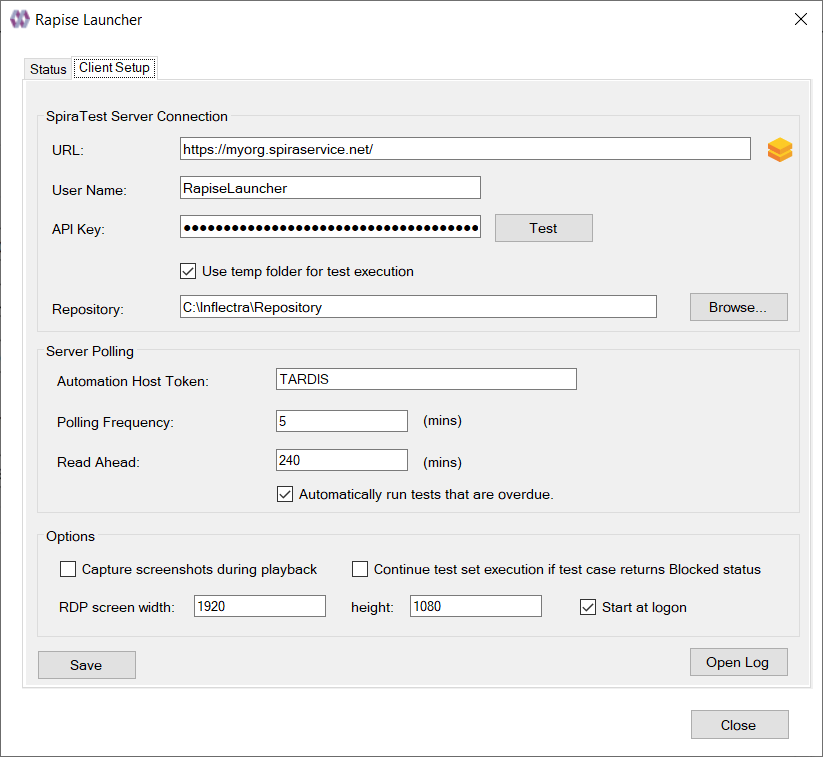
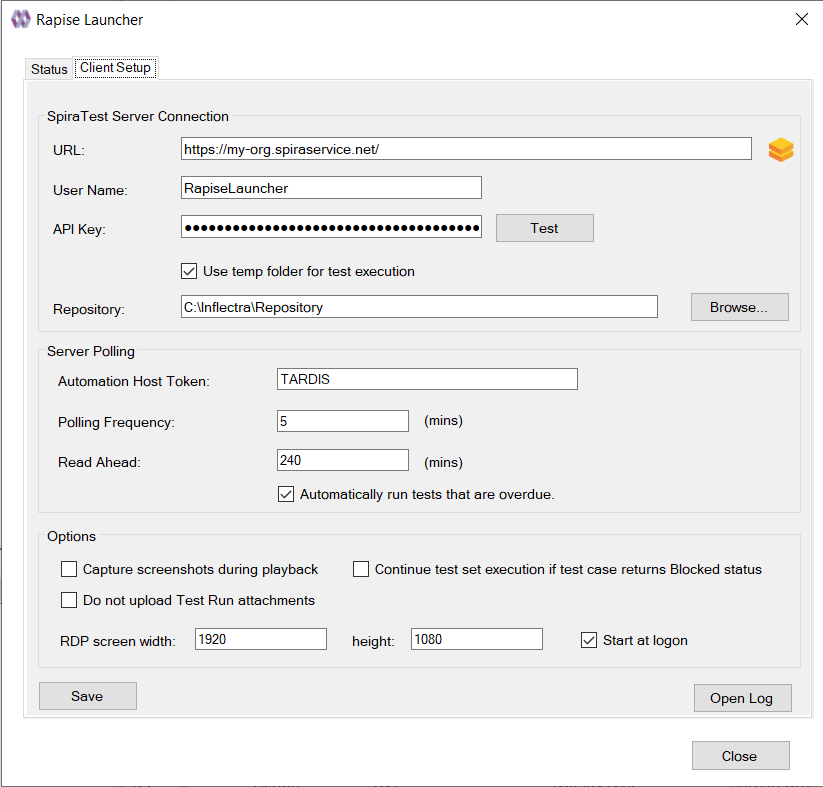
Spira Integration topic update, part 2

diff --git a/docs/Guide/spiratest_integration.md b/docs/Guide/spiratest_integration.md
@@ -239,7 +239,7 @@ If you would to save the current Rapise test into a new SpiraTest project or if 
 
 ## Using the Spira Dashboard
 
-In addition to using the menu options described in this page, you can interact with SpiraTest using the [Spira Dashboard](spira_dashboard.md) that is available from the `View > Spira Dashboard` menu. This provides a convenient way of interacting with SpiraTest, allowing you to quickly create, save and open test cases from SpiraTest.
+In addition to using the menu options described in this page, you can interact with SpiraTest using the [Spira Dashboard](spira_dashboard_2.md) that is available from the `View > Spira Dashboard` menu. This provides a convenient way of interacting with SpiraTest, allowing you to quickly create, save and open test cases from SpiraTest.
 
 ## Viewing the SpiraTest Repository
 
@@ -455,8 +455,9 @@ If you have a test set that contains several test cases and failure of some test
 
 ### Configuring RapiseLauncher
 
-RapiseLauncher installs along with the main Rapise application. It can be found in the `Start > Programs >
-Inflectra` program folder:
+RapiseLauncher installs along with the main Rapise application. You may launch it from Rapise using [main menu](./menu_and_toolbars.md#tools) `Tools > Rapise Launcher`.
+
+It can also be found in the `Start > Programs > Inflectra` program folder:
 
 ![rapise launcher icon](./img/using_rapise_with_spiratest_guide46.png)
 
@@ -473,37 +474,39 @@ At the end of the test, the program will go back and resume scanning for tests t
 
 By right clicking on the system tray icon and selecting `Configuration`, the application's window will open to the configuration panel.
 
-![Client Configuration](./img/using_rapise_with_spiratest_guide47.png)
+![Client Configuration](./img/using_rapise_with_spiratest_guide47.png){width="658px"}
 
 The panel has the following options:
 
 #### SpiraTest Server Connection
 
-- **URL**: This is the URL of the SpiraTest installation. Be sure to not put /Login.aspx or any other page in the string, this should be just the root URL of the application's install.
-- **User Name**: This is the SpiraTest login id of the user that you want the tests reported as. Note that while the application is polling and updating test results, if the user is logged into a web browser session, they will get kicked out.
-- **API Key**: The [API Key](https://spiradoc.inflectra.com/HowTo-Guides/Users-profile-management/?_ga=2.209824854.2141741329.1643112840-308801923.1641378277#how-to-get-or-make-your-rss-token-or-api-key) for the to the User Name above.
-- **Test**: Clicking this will test the login to make sure the application can connect to the server properly.
-- **Repository** -- this is the Windows folder that used to store local copies of the non-absolute repositories (downloaded from SpiraTest).
-- **Use Temp Folder for Test Execution** -- this should be enabled if you are also writing tests on this computer using Rapise and you don't want RapiseLauncher to download and overwrite any changes you have made locally (that have not been saved).
+- **URL** - the URL of the SpiraTest installation. Be sure to not put `/Login.aspx` or any other page in the string, this should be just the root URL of the application's install.
+- **User Name** - the SpiraTest login id of the user that you want the tests reported as. Note that while the application is polling and updating test results, if the user is logged into a web browser session, they will get kicked out.
+- **API Key**-  the [API Key](https://spiradoc.inflectra.com/HowTo-Guides/Users-profile-management/?_ga=2.209824854.2141741329.1643112840-308801923.1641378277#how-to-get-or-make-your-rss-token-or-api-key) for the User Name above.
+- **Test** - clicking this will test the login to make sure the application can connect to the server properly.
+- **Repository** - this is the Windows folder to store local copies of tests to execute.It is applicable when the next option is unchecked.
+- **Use Temp Folder for Test Execution** - this is the default and recommended option, the Temp folder is located in `C:\ProgramData\Inflectra\Rapise\Temp`.
 
 #### Server Polling
 
-- **Automation Host Token**: This field is required, and uniquely identifies the local testing machine. Any scheduled tests assigned to the Automation Host on SpiraTest will get polled for this machine. Except in special circumstances, this ID should be unique among all testing machines.
+- **Automation Host Token** - this field is required, and uniquely identifies the local testing machine. Any scheduled tests assigned to the Automation Host on SpiraTest will get polled for this machine. Except in special circumstances, this ID should be unique among all testing machines.
 
-    >  ![ico_Warning](./img/using_rapise_with_spiratest_guide48.png) **Important**: This field must match the string that is entered into the Automation Host Details screen in the **Token**: field, or scheduled tests will not be recognized.
+    !!! important
+		This field must match the string that is entered into the Automation Host Details screen in the **Token** field, or scheduled tests will not be recognized.
 
-- **Automatically Run Overdue Tests**: When this is checked, any tests that are pulled from the SpiraTest server that has a scheduled date in the past will be marked as Overdue. Normally, overdue tests will not be executed. With this check, they will be executed as soon as the poll is finished.
-- **Polling Frequency**: How often in minutes the application will poll the SpiraTest server for updates to the automation host's schedule. The default is 60 (1 hour), and should be fine for most installations. Note that tests will still be executed on their scheduled time, this is simply how often the program will talk to the SpiraTest server to detect schedule changes. Updating the polling frequency will reset the currently running timers.
-- **Polling Read Ahead**: How far ahead in minutes the program should read the schedule for the Automation host. Tests that are scheduled farther in advance will not show up as a pending test on the status screen.
+- **Polling Frequency** - how often in minutes the application will poll the SpiraTest server for updates to the automation host's schedule. The default is 5 minutes, and should be fine for most installations. Note that tests will still be executed on their scheduled time, this is simply how often the program will talk to the SpiraTest server to detect schedule changes. Updating the polling frequency will reset the currently running timers.
+- **Read Ahead** - how far ahead in minutes the program should read the schedule for the Automation host. Tests that are scheduled further in advance will not show up as a pending test on the status screen.
+- **Automatically run tests that are overdue** - when this is checked, any tests that are pulled from the SpiraTest server that has a scheduled date in the past will be marked as Overdue. Normally, overdue tests will not be executed. With this check, they will be executed as soon as the poll is finished.
 
 #### Options
 
-- **Capture screenshots during playback** -- selecting this option will instruct RapiseLauncher to capture screenshots of the objects being recognized during testing and upload them to SpiraTest at the end of the execution. The screenshots will then be linked to the test run inside SpiraTest.
-- **Continue test set execution if test case returns Blocked status** -- by default Blocked test case stops execution of a test set, set this checkbox to run all test cases no matter what. This option requires Rapise 7.3+
+- **Capture screenshots during playback** - selecting this option will instruct RapiseLauncher to capture screenshots of the objects being recognized during testing and upload them to SpiraTest at the end of the execution. The screenshots will then be linked to the test run inside SpiraTest.
+- **Continue test set execution if test case returns Blocked status** - by default Blocked test case stops execution of a test set, set this checkbox to run all test cases no matter what. This option requires Rapise 7.3+
+- **Do not upload Test Run attachments** - if this option is set, RapiseLauncher does not upload screenshots and log files to SpiraTest to save database space. Use this option in exceptional cases if your SpiraTest instance is running out of space. Requires Rapise 8.0+.
+- **RDP screen width & height** - when RDP session is disconnected via [RapiseLauncher tray icon menu](#tray-icon-menu) set screen resolution to specified width and height.
 - **Start at logon** -- set this checkbox to let Windows automatically launch Rapise Launcher at user logon. Useful when your server is rebooted regularly. This option requires Rapise 6.3+
-- **RDP screen width & height** -- when RDP session is disconnected via [RapiseLauncher tray icon menu](#tray-icon-menu) set screen resolution to specified width and height.
 
-Since Rapise 7.2 one may use `Show Log` button to quickly open the RapiseLauncher log in the default text viewer.
+Since Rapise 7.2 one may use `Open Log` button to quickly open the RapiseLauncher log in the default text viewer.
 
 ### Status Screen
 
@@ -513,14 +516,18 @@ The status screen is usually hidden, but can be brought up for display by double
 
 The top of the screen shows the current status, whether it's running a test or waiting to poll the server for an update. It will also show any errors present on the application, like a registration error or configuration issue. Under the status bar is a list of any pending or executing tests that are scheduled for this testing machine. The list will get cleared at every poll, so tests that have executed since the previous poll will still be on the list, and will show their execution status:
 
-- **Green Arrow**: A green arrow indicates that the test is still running, or RapiseLauncher is waiting for a reply from Rapise.
-- **Blue Checkbox**: A blue checkbox indicates that the test is completed, regardless of status of the individual test steps in the scheduled test set.
-- **Red Error**: A red error indicator indicates that Rapise ran into an issue (outside of test results). In this case, any further tests will be marked as blocked, as the issue needs to be corrected within Rapise or the Rapise test script.
-- **No Indication**: No indication means that the test is currently awaiting for its scheduled date to start. Note that only one test will be launched at a time, so that if two tests are scheduled at the same time, the one with the lower TestSet ID will be executed first, then as soon as it's finished, the second scheduled test will be run.
+- **Green Arrow** - a green arrow indicates that the test is still running, or RapiseLauncher is waiting for a reply from Rapise.
+- **Blue Checkbox** - a blue checkbox indicates that the test is completed, regardless of status of the individual test steps in the scheduled test set.
+- **Red Error** - a red error indicator indicates that Rapise ran into an issue (outside of test results). In this case, any further tests will be marked as blocked, as the issue needs to be corrected within Rapise or the Rapise test script.
+- **No Indication** - no indication means that the test is currently awaiting for its scheduled date to start. Note that only one test will be launched at a time, so that if two tests are scheduled at the same time, the one with the lower TestSet ID will be executed first, then as soon as it's finished, the second scheduled test will be run.
+
+#### Buttons
 
 By highlighting a test that has not been executed yet, you can click the `Force Execute` button. This will cause the selected test to have its scheduled date to the current time, causing it to be immediately executed (or, if another test is already running, next in line for execution).
 
 At any time the `Force Poll` button can be clicked, causing RapiseLauncher to initiate an immediate poll of the SpiraTest server to check for pending runs. The timers for the next server poll will be reset when the button is clicked.
+
+To stop of execution of a running Test Set, select it in the list and click `Cancel Execution` button.
 
 ### Tray Icon Menu
 
@@ -528,13 +535,13 @@ Instead of operating from the application window, all functions exist on the tra
 
 ![tray menu](./img/using_rapise_with_spiratest_guide50.png)
 
-- **Pause / Resume**: The Pause/Resume option pauses or resumes the timers for polling and executing tests. If a test or server poll is already in progress, it will not cancel these. However, after the are finished, no further polls or tests will be run.
-- **Poll Now**: This will force a server poll for upcoming tests, and reset the poll timer.
-- **Disconnect RDP Session**: This will disconnect current RDP session and will leave the system in a state ready for execution of UI tests. After disconnect RapiseLauncher will set screen resolution according to [configuration](#client-configuration) (width/height options). This feature is a convenient way to perform steps described in [KB325](https://www.inflectra.com/Support/KnowledgeBase/KB325.aspx).
-- **Configuration**: Opens the main window to the Configuration page.
-- **Help > About**: Opens the About window, which displays information about Rapise Launcher.
-- **Help > View Help**: Opens this help page.
-- **Exit**: Will completely exit the program. Doing this will cancel any tests currently running and shut down the program. Any tests that were waiting to be executed will not execute until the program is restarted and the polling is resumed.
+- **Pause / Resume** - the Pause/Resume option pauses or resumes the timers for polling and executing tests. If a test or server poll is already in progress, it will not cancel these. However, after the are finished, no further polls or tests will be run.
+- **Poll Now** - this will force a server poll for upcoming tests, and reset the poll timer.
+- **Disconnect RDP Session** - this will disconnect current RDP session and will leave the system in a state ready for execution of UI tests. After disconnect RapiseLauncher will set screen resolution according to [configuration](#client-configuration) (width/height options). This feature is a convenient way to perform steps described in [KB325](https://www.inflectra.com/Support/KnowledgeBase/KB325.aspx).
+- **Configuration** - opens the main window to the Configuration page.
+- **Help > About** - opens the About window, which displays information about Rapise Launcher.
+- **Help > View Help** - opens this help page.
+- **Exit** - will completely exit the program. Doing this will cancel any tests currently running and shut down the program. Any tests that were waiting to be executed will not execute until the program is restarted and the polling is resumed.
 
 You can double-click the tray icon to bring up the main window on the Status page.
 
@@ -627,6 +634,7 @@ RapiseLauncher is using this CMD file to clone a Git repository. Environment var
 
 ## See Also
 
+- [Using Spira Dashboard](spira_dashboard_2.md) 
 - [Using Rapise with SpiraTest (video)](https://youtu.be/5ybrBQOzez8)
 - [Data Driven Testing with Test Configurations](https://www.inflectra.com/ideas/Entry/spotlight-on-spiratest-53--data-driven-testing-wit-495.aspx)
 - [RapiseLauncher extension](vstest_rl.md) for Azure DevOps.

diff --git a/docs/Guide/options_dialog.md b/docs/Guide/options_dialog.md
@@ -69,7 +69,7 @@ Set **SplashScreen** to **False** to prevent the splash screen from appearing.
 
 * **ShowCommonFileAliases**: Legacy, not needed since Rapise 6.0.
 * **Enable Execution Monitor**: specifies whether the execution monitor dialog box will be displayed during [playback](playback.md).
-* **ShowDashboardOnStartUp**: If **True**, the [Spira Dashboard](spira_dashboard.md) will open automatically when Rapise is opened.
+* **ShowDashboardOnStartUp**: If **True**, the [Spira Dashboard](spira_dashboard_2.md) will open automatically when Rapise is opened.
 * **ShowStartPageOnStartUp**: If **True**, the [Start Page](start_page.md) will open automatically when Rapise is opened.
 * **Spira Integration**: Enables all dialogs and menus for [SpiraTest Integration](spiratest_integration.md).
 * **Temp Folder**:  default folder for temporary tests.

diff --git a/docs/Guide/menu_and_toolbars.md b/docs/Guide/menu_and_toolbars.md
@@ -147,7 +147,7 @@ The **View** menu contents depend on the active editor currently open in the [co
 ![Manual](./img/menu_view_manual.png)
 
 * **Start Page** - opens the Rapise [Start Page](start_page.md).
-* **Spira Dashboard** - opens [Spira Dashboard](spira_dashboard.md).
+* **Spira Dashboard** - opens [Spira Dashboard](spira_dashboard_2.md).
 * **RVL** - opens the [RVL editor](rvl_editor.md).
 * **Main** - opens the primary [test script file](understanding_the_script.md) (normally `Main.js`).
 * **User** - This opens the user functions [script file](understanding_the_script.md) containing any user-defined testing functions (called `User.js`).

diff --git a/docs/Guide/dialogs_views_menus.md b/docs/Guide/dialogs_views_menus.md
@@ -39,7 +39,7 @@ This section details the Rapise GUI.  Each subsection describes the function of
     - [Test Settings Dialog](settings_dialog.md)
     - [SOAP Definition Editor](soap_definition_editor.md)
     - [Source Editor](source_editor.md)
-    - [Spira Dashboard](spira_dashboard.md)
+    - [Spira Dashboard](spira_dashboard_2.md)
     - [Spira Properties Dialog](spira_properties_dialog.md)
     - [Spreadsheet Editor](spreadsheet_editor.md)
     - [Spy Dialog](ses_spy_dialog.md)
